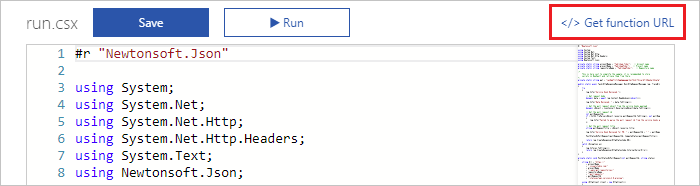
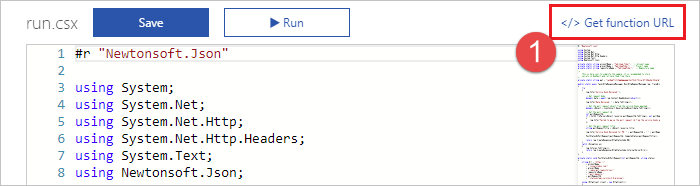
Image tweaks and small copy tweaks

Changed region(s): [[0.72, 0.1613, 0.81, 0.4032]]

diff --git a/docs/git/how-to/create-pr-status-server-with-azure-functions.md b/docs/git/how-to/create-pr-status-server-with-azure-functions.md
@@ -6,7 +6,7 @@ ms.prod: vs-devops-alm
 ms.technology: vs-devops-git
 ms.manager: douge
 ms.author: yohasna
-ms.date: 12/08/2017
+ms.date: 12/11/2017
 ---
 
 # Use Azure Functions to create custom branch policies
@@ -134,7 +134,7 @@ Make sure to update the code with your account name, project name, repository na
 >This sample code stores the PAT in code to simplify the sample. It is recommended to store secrets in KeyVault and retrieve them from there.
 
 
-This sample inspects the PR title to see if the user has indicated if the PR is a work in progress by adding **WIP** to the title. If so, the sample code changes the status posted back to the PR.
+This sample inspects the PR title to see if the user has indicated if the PR is a work in progress by adding **WIP** to the title. If so, the sample code changes the status posted back to the PR. Replace the code in your Azure function with the following code to implement updating the status posted back to the PR.
 
 ```cs
 #r "Newtonsoft.Json"

diff --git a/docs/git/how-to/create-pr-status-server.md b/docs/git/how-to/create-pr-status-server.md
@@ -6,7 +6,7 @@ ms.prod: vs-devops-alm
 ms.technology: vs-devops-git
 ms.manager: douge
 ms.author: mmitrik
-ms.date: 12/08/2017
+ms.date: 12/11/2017
 ---
 
 # Create a pull request status server with Node.js
